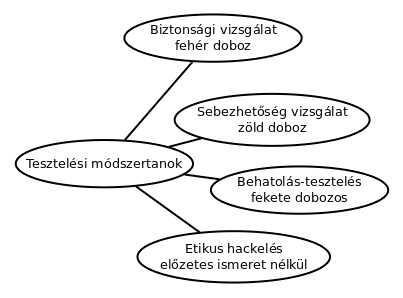
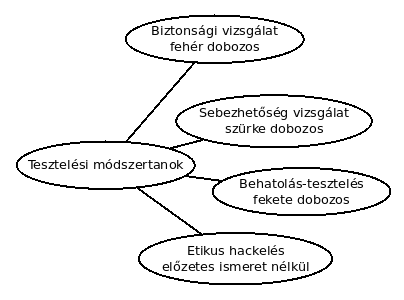
teszteles: 08 javítva

diff --git a/teszteles/08_Biztonsagi.md b/teszteles/08_Biztonsagi.md
@@ -15,7 +15,7 @@
 
 ## A biztonsági tesztelésről
 
-A cél a szoftverek sérülékenységeinek feltárása, az érzékyen adatok megvédése.
+A cél a szoftverek sérülékenységeinek feltárása, az érzékeny adatok megvédése.
 
 ## Tesztelési módszertanok
 
@@ -35,7 +35,7 @@ A cél a szoftverek sérülékenységeinek feltárása, az érzékyen adatok meg
 
 ### Sebezhetőség vizsgálat
 
-* Zöld dobozs teszt.
+* Szürke dobozos teszt.
 * Biztonsági rések mintáit keresi egy automatizált szoftver.
 * Pl. Valamilyen bemenetre, érzékeny adatokat szolgáltat az alkalmazás.
 
